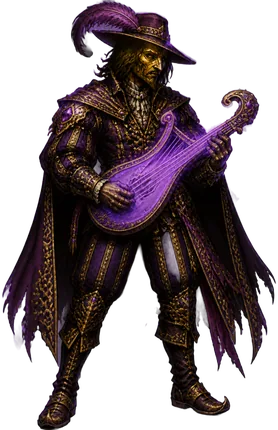
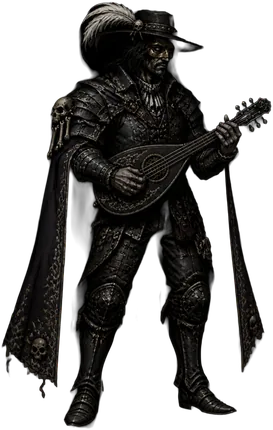
Ménestrel funèbre : armure palier V repeinte
Claude-Session: https://claude.ai/code/session_01XuxscubMSQPeew8BrSfQGu

diff --git a/sw.js b/sw.js
@@ -1,5 +1,5 @@
 /* Service worker : le jeu fonctionne hors connexion une fois installé. */
-const CACHE = "couronne-cendres-a0c69dc574", ART_CACHE = "couronne-cendres-art-0e220253";
+const CACHE = "couronne-cendres-a0c69dc574", ART_CACHE = "couronne-cendres-art-08f8faa9";
 const SHELL = ["./", "./index.html", "./manifest.webmanifest", "./icon-192.png", "./icon-512.png", "./icon-maskable-512.png", "./apple-touch-icon.png", "./favicon-64.png"];
 self.addEventListener("install", e => { e.waitUntil(caches.open(CACHE).then(c => c.addAll(SHELL)).then(() => self.skipWaiting())); });
 self.addEventListener("activate", e => { e.waitUntil(caches.keys().then(ks => Promise.all(ks.filter(k => k !== CACHE && k !== ART_CACHE).map(k => caches.delete(k)))).then(() => self.clients.claim())); });
